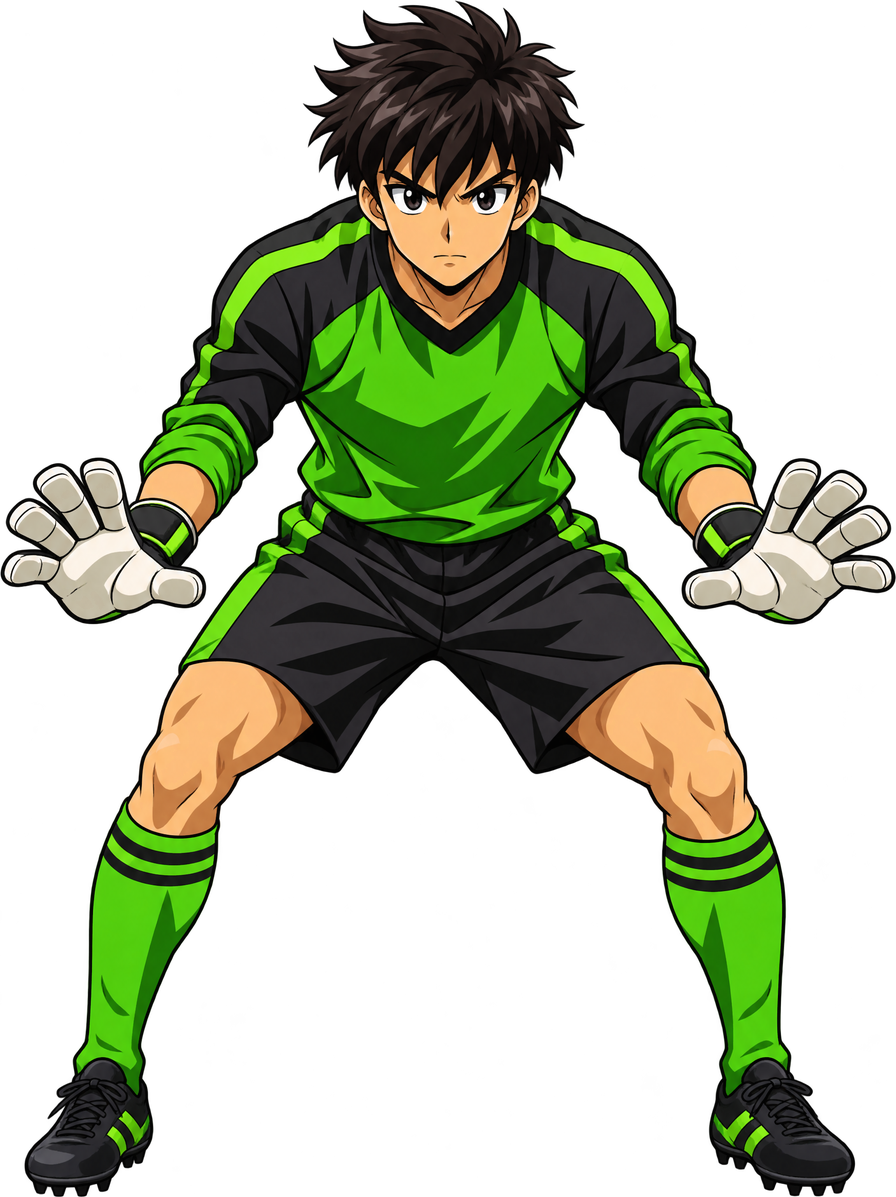
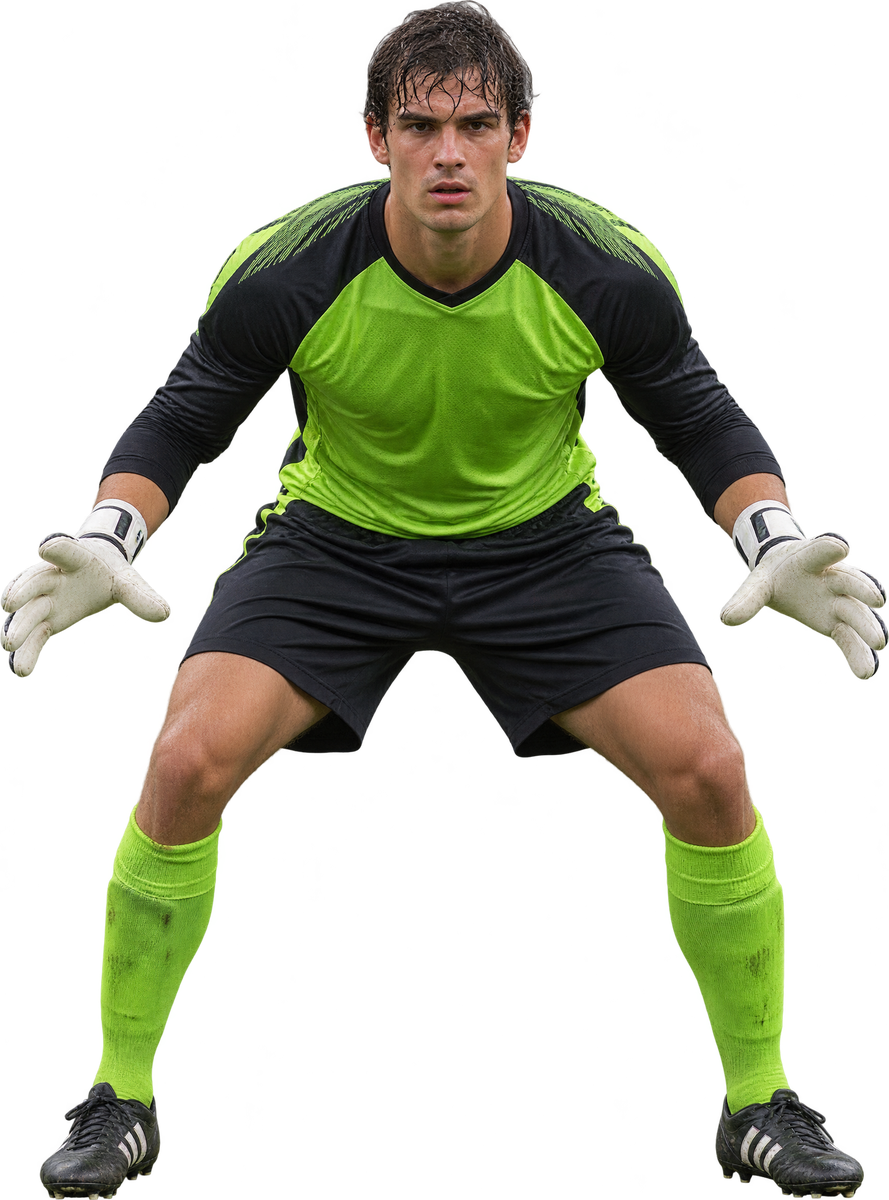
Penalty game: photoreal sprites centered on the shot axis
Replace anime sprites with photoreal shooter (back view run-up and kick),
goalkeeper stance and dive left/right, cropped to content. The shooter is
centred by alignment so each frame sits on the same axis.

Claude-Session: https://claude.ai/code/session_01AQ7oTwvD4DwSNWQfH2t8Mw

diff --git a/lib/features/gamification/ui/penalty_play_screen.dart b/lib/features/gamification/ui/penalty_play_screen.dart
@@ -37,11 +37,10 @@ class _PenaltyPlayScreenState extends State<PenaltyPlayScreen>
 
   // Σταθερές διαστάσεις εικόνων (ύψος → πλάτος αναλογικά).
   static const double _keeperHeight = 170; // keeper.png 896x1200
-  static const double _keeperWidth = 127;
+  static const double _keeperWidth = 126;
   static const double _diveWidth = 300; // keeper_dive_*.png (ύψος από την αναλογία)
   static const double _diveHalfHeight = 56;
   static const double _shooterHeight = 180; // shooter_*.png (περικομμένο)
-  static const double _shooterWidth = 133;
 
   // Στόχοι μέσα στο τέρμα, συμμετρικοί γύρω από το κέντρο.
   static const List<double> _targetX = [1 / 6, 0.5, 5 / 6];
@@ -478,12 +477,17 @@ class _PenaltyPlayScreenState extends State<PenaltyPlayScreen>
                   ),
                   // Σουτέρ (πίσω από τη μπάλα).
                   Positioned(
-                    left: cx - _shooterWidth / 2,
+                    left: 0,
+                    right: 0,
                     top: _spotY - _shooterHeight + 6,
-                    child: Image.asset(
-                      shooterAsset,
-                      height: _shooterHeight,
-                      filterQuality: FilterQuality.high,
+                    height: _shooterHeight,
+                    child: Align(
+                      alignment: Alignment.bottomCenter,
+                      child: Image.asset(
+                        shooterAsset,
+                        height: _shooterHeight,
+                        filterQuality: FilterQuality.high,
+                      ),
                     ),
                   ),
                   // Μπάλα.
